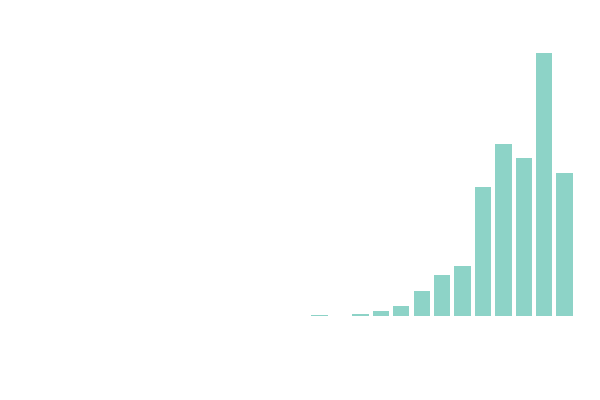
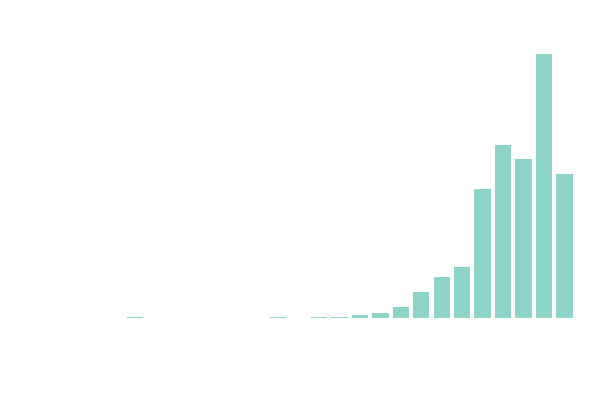
Mark with * what is still TODO

diff --git a/make_md.py b/make_md.py
@@ -6,7 +6,7 @@ import requests
 
 update_journal = False
 update_recent = False
-update_plot = False
+update_plot = True
 
 myfile = open("HEPML.tex", encoding="utf8")
 myfile_readme = open("README.md","w", encoding="utf8")
